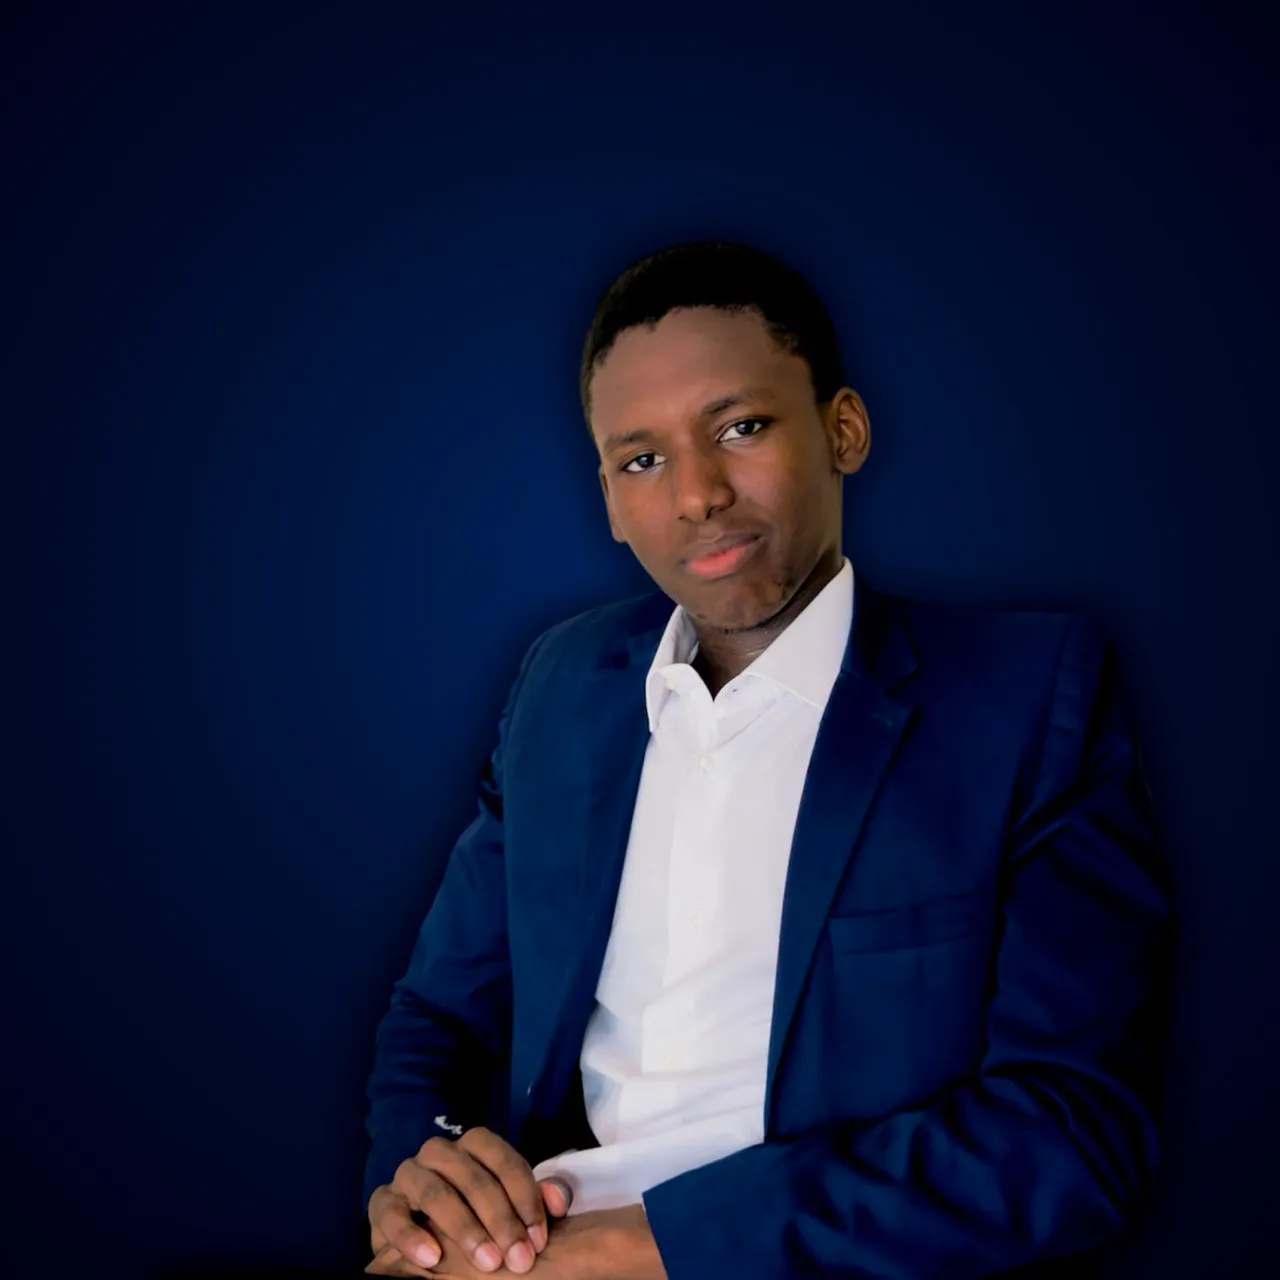
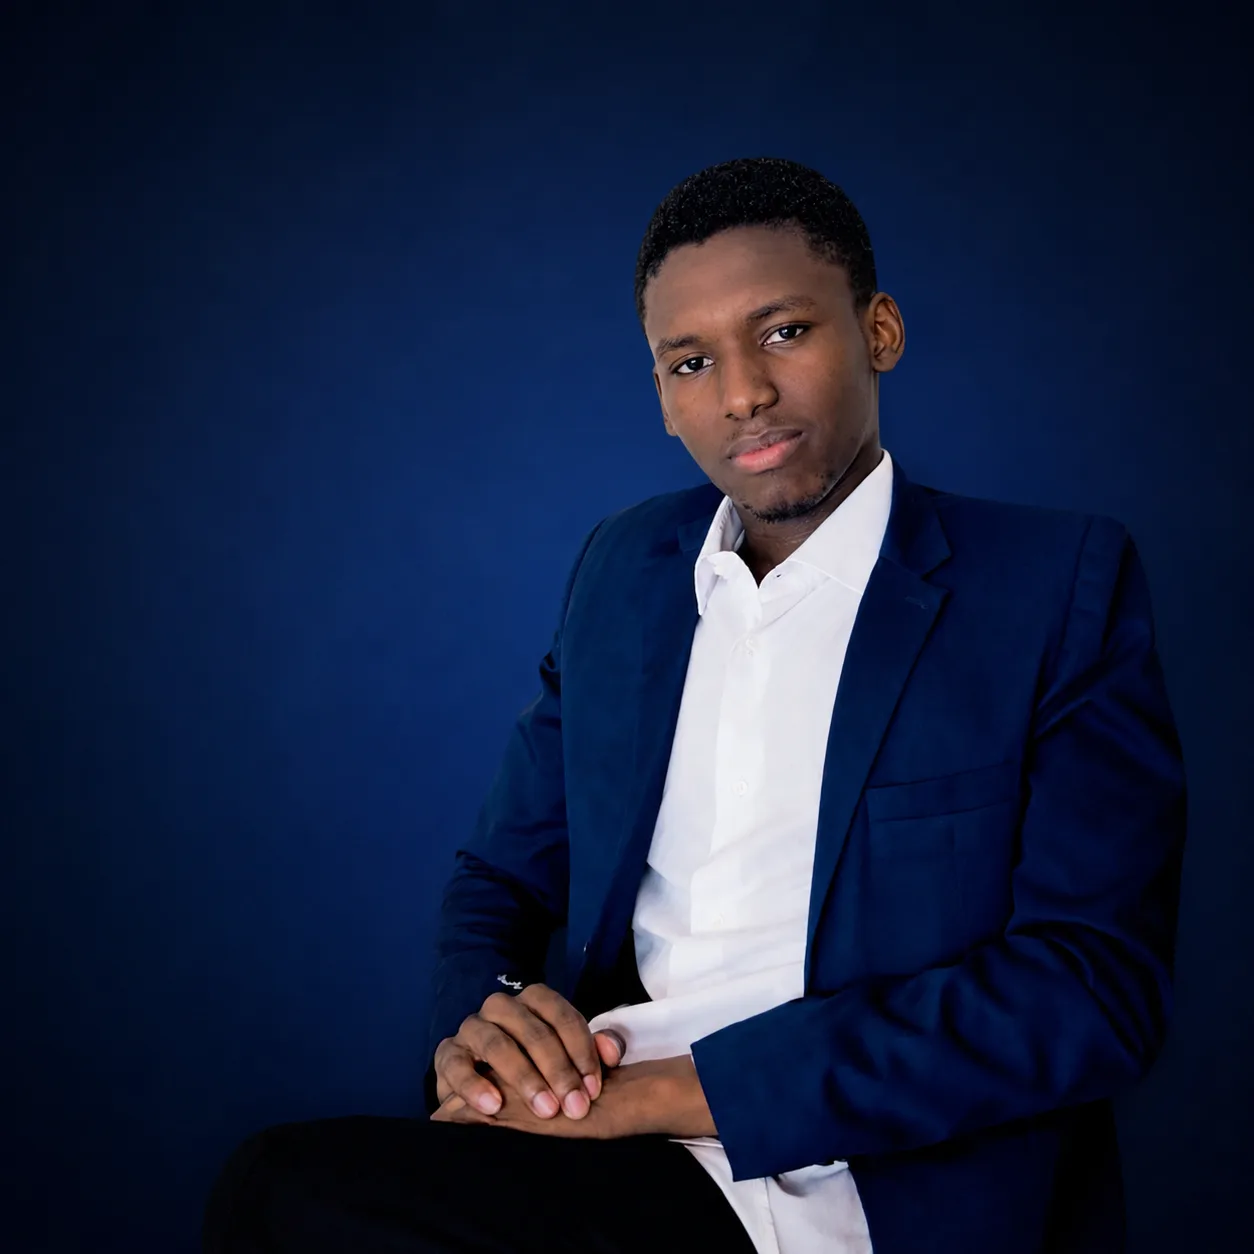
Refactor code structure for improved readability and maintainability

Changed region(s): [[0.1866, 0.1244, 0.9641, 1.0], [0.7464, 0.9952, 0.8086, 1.0]]

diff --git a/src/sections/Projects/Projects.tsx b/src/sections/Projects/Projects.tsx
@@ -4,10 +4,10 @@ import gsap from 'gsap';
 import { ScrollTrigger } from 'gsap/ScrollTrigger';
 import './Projects.css';
 import idconsultImg from '../../assets/images/idconsult.webp';
-import immoAppartImg from '../../assets/images/immo-appart.webp';
+import strideImg from '../../assets/images/stride.webp';
 import prestigeDiningImg from '../../assets/images/prestige-dining.webp';
 import mokaNoirImg from '../../assets/images/moka-noir.webp';
-import empiregymImg from '../../assets/images/empiregym.webp';
+import pulseImg from '../../assets/images/pulse.webp';
 import inadiaImg from '../../assets/images/inadia.webp';
 
 gsap.registerPlugin(ScrollTrigger);
@@ -33,9 +33,9 @@ const projectsData = [
     id: 3,
     titleKey: 'projects.p2_title',
     descKey: 'projects.p2_desc',
-    tags: ['HTML5', 'CSS3', 'JavaScript', 'GSAP'],
-    image: immoAppartImg,
-    link: 'https://immo-appart.netlify.app/',
+    tags: ['Next.js 15', 'React 18', 'TypeScript', 'Tailwind CSS', 'Three.js', 'GSAP'],
+    image: strideImg,
+    link: 'https://stride-sneaker.vercel.app/',
   },
   {
     id: 4,
@@ -57,9 +57,9 @@ const projectsData = [
     id: 6,
     titleKey: 'projects.p5_title',
     descKey: 'projects.p5_desc',
-    tags: ['HTML5', 'CSS3', 'JavaScript', 'GSAP'],
-    image: empiregymImg,
-    link: 'https://empiregym.vercel.app/',
+    tags: ['Next.js 15', 'React 18', 'TypeScript', 'Tailwind CSS', 'GSAP'],
+    image: pulseImg,
+    link: 'https://pulse-smartwatch.vercel.app/',
   }
 ];
 
